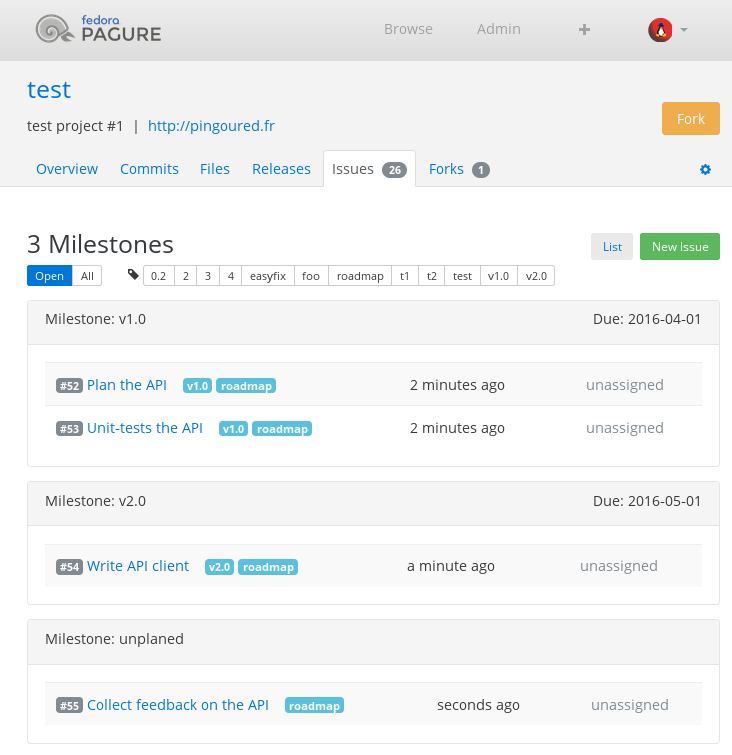
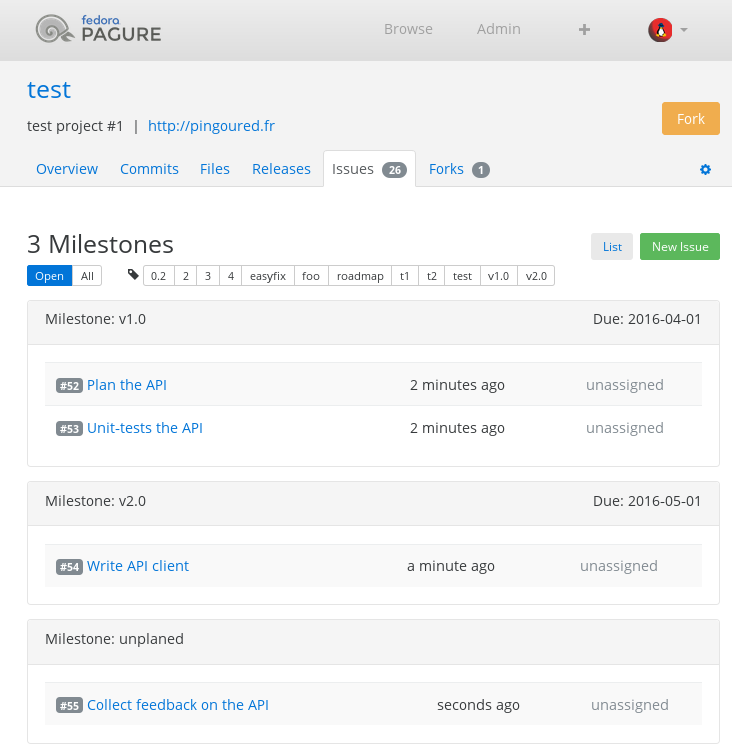
Adjust the documentation about using the roadmap feature

diff --git a/doc/usage/roadmap.rst b/doc/usage/roadmap.rst
@@ -6,13 +6,12 @@ their tags.
 
 The principal is as follow:
 
-* All the ticket with the tag ``roadmap`` will show up on the roadmap page.
-
 * For each milestones defined in the settings of the project, the roadmap
-  will group tickets with the corresponding tag.
+  will group tickets with the corresponding milestone.
 
-* Tickets with the tag ``roadmap`` that are not associated with any of the
-  milestones defined in the settings are group in an ``unplanned`` section.
+* If your project has an ``unplanned`` milestone, this milestone will be
+  shown at the bottom of the roadmap page. This allowing you to put something
+  on the roadmap without assigning a real milestone to it.
 
 
 Example
@@ -21,14 +20,14 @@ Example
 For a project named ``test`` on ``pagure.io``.
 
 
-
 * First, go to the settings page of the project, create the milestones you
   like, for example: ``v1.0`` and ``v2.0``.
 
 * For the tickets you want to be on these milestones, go through each of them
-  and add them the tags: ``roadmap`` in combination with the milestone you want
-  ``v1.0`` or ``v2.0``, or none of them if the ticket is on the roadmap but
-  not assigned to any milestones.
+  and set their milestone to either ``v1.0`` or ``v2.0``, or none of them
+  if the ticket is on not on the roadmap.
+  You can set the milestone on the metadata panel on the right side of the
+  issue page.
 
 
 * And this is how it will look like
